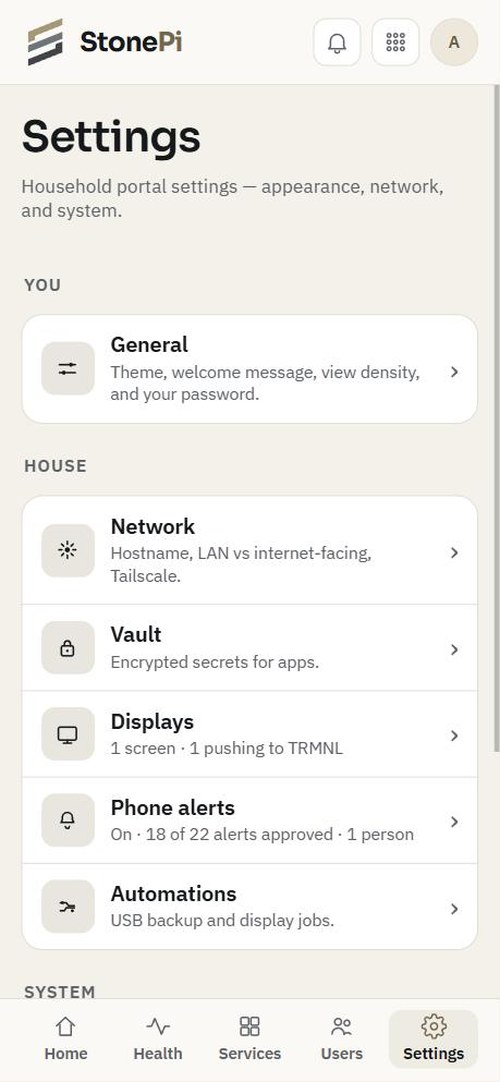
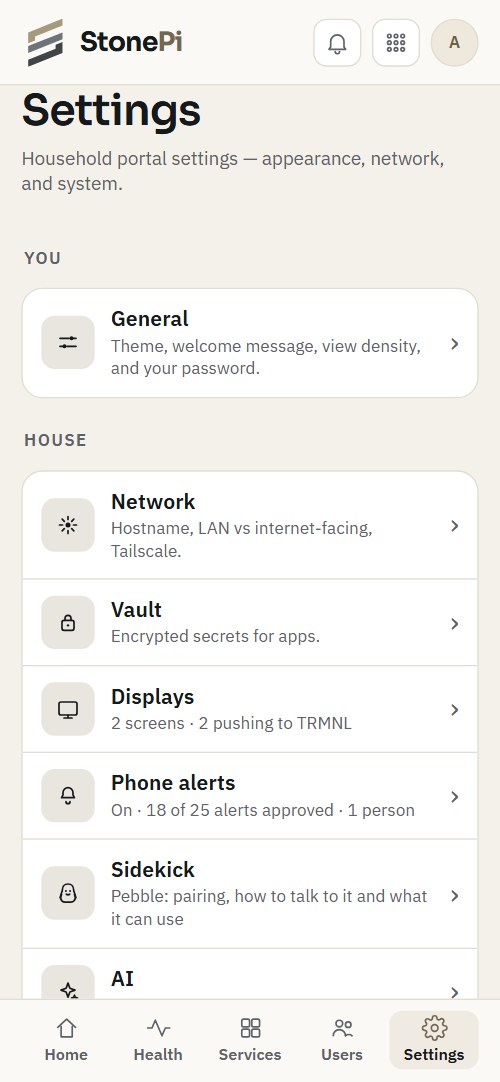
README: Settings screenshot with Sidekick and AI.

diff --git a/README.md b/README.md
@@ -16,7 +16,7 @@ StonePi is a private hub for your home on one Raspberry Pi. It brings you the ne
 <p align="center">
   <img src="docs/screenshots/services.jpg" alt="Services: each app's route and port, with on and off switches" width="250" />
   <img src="docs/screenshots/users.jpg" alt="Users: household accounts" width="250" />
-  <img src="docs/screenshots/settings.jpg" alt="Settings: General, Network, Vault, AI, Automations, Updates, Backup" width="250" />
+  <img src="docs/screenshots/settings.jpg" alt="Settings: General, Network, Vault, Displays, Phone alerts, Sidekick, AI, Automations, Updates, Backup" width="250" />
 </p>
 
 *Sign-in, Home and Health; Services, Users and Settings. Every page works on a phone, in light or dark.*
